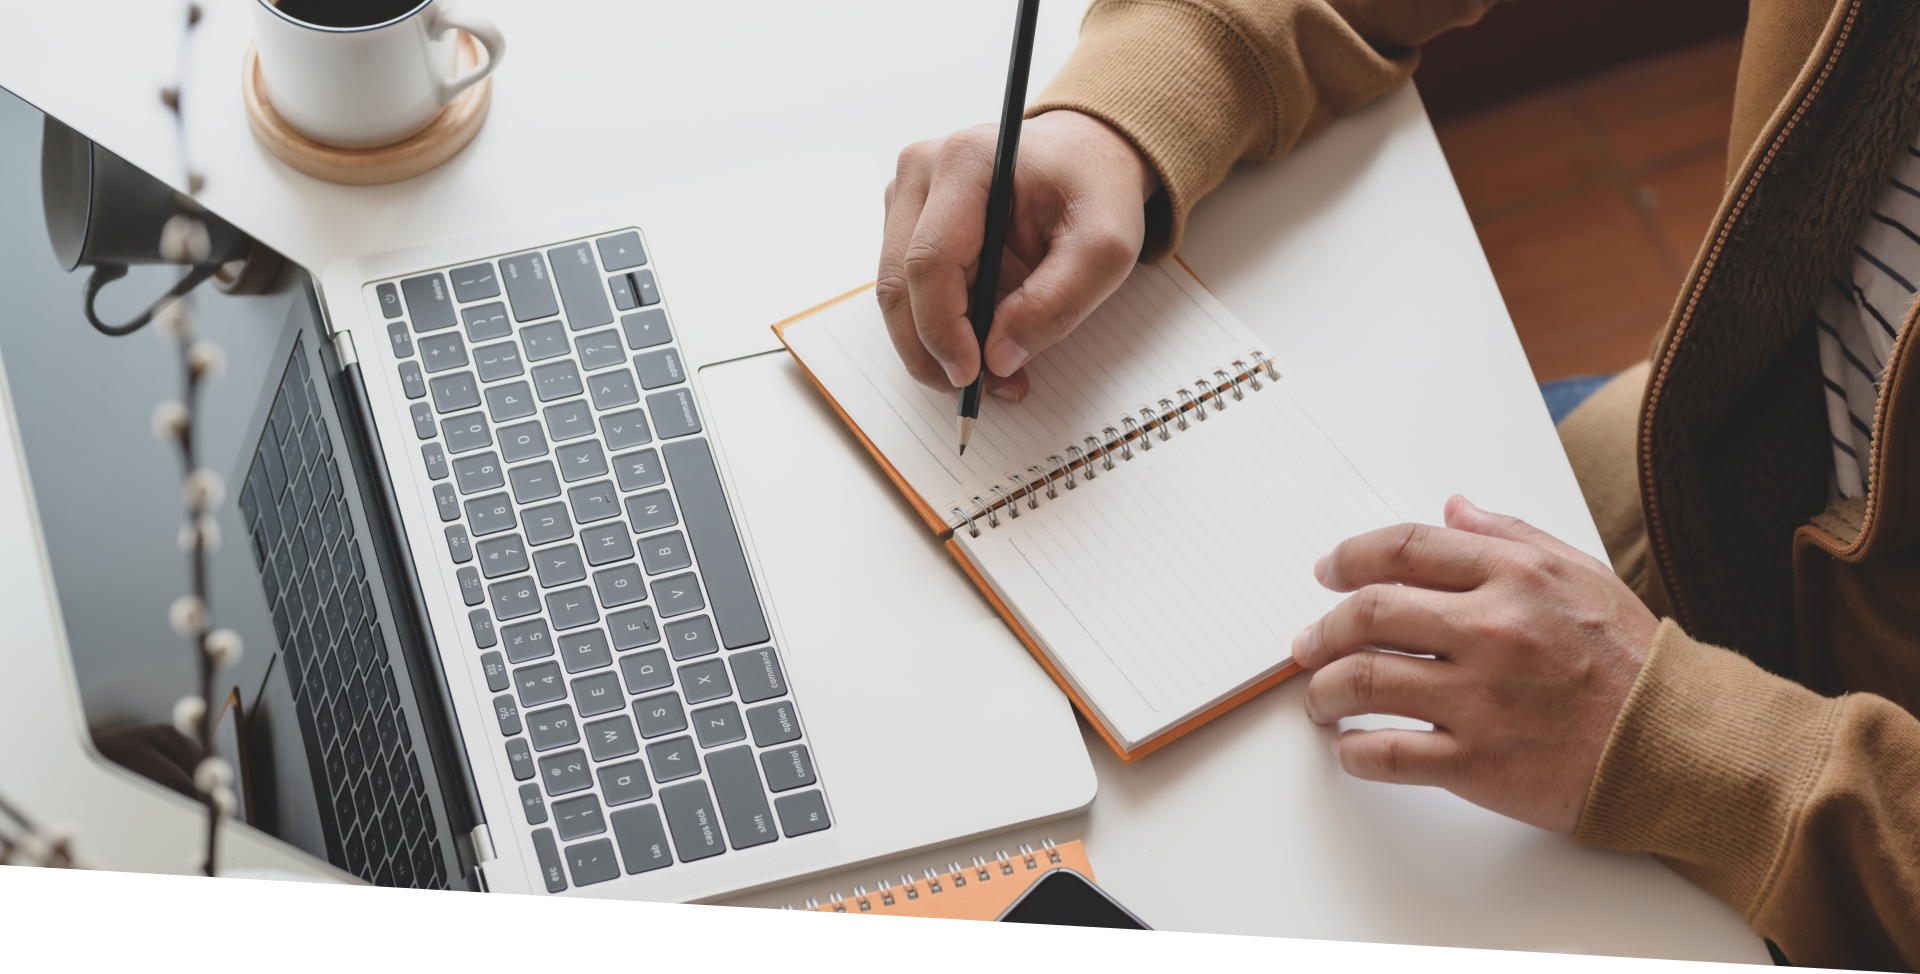
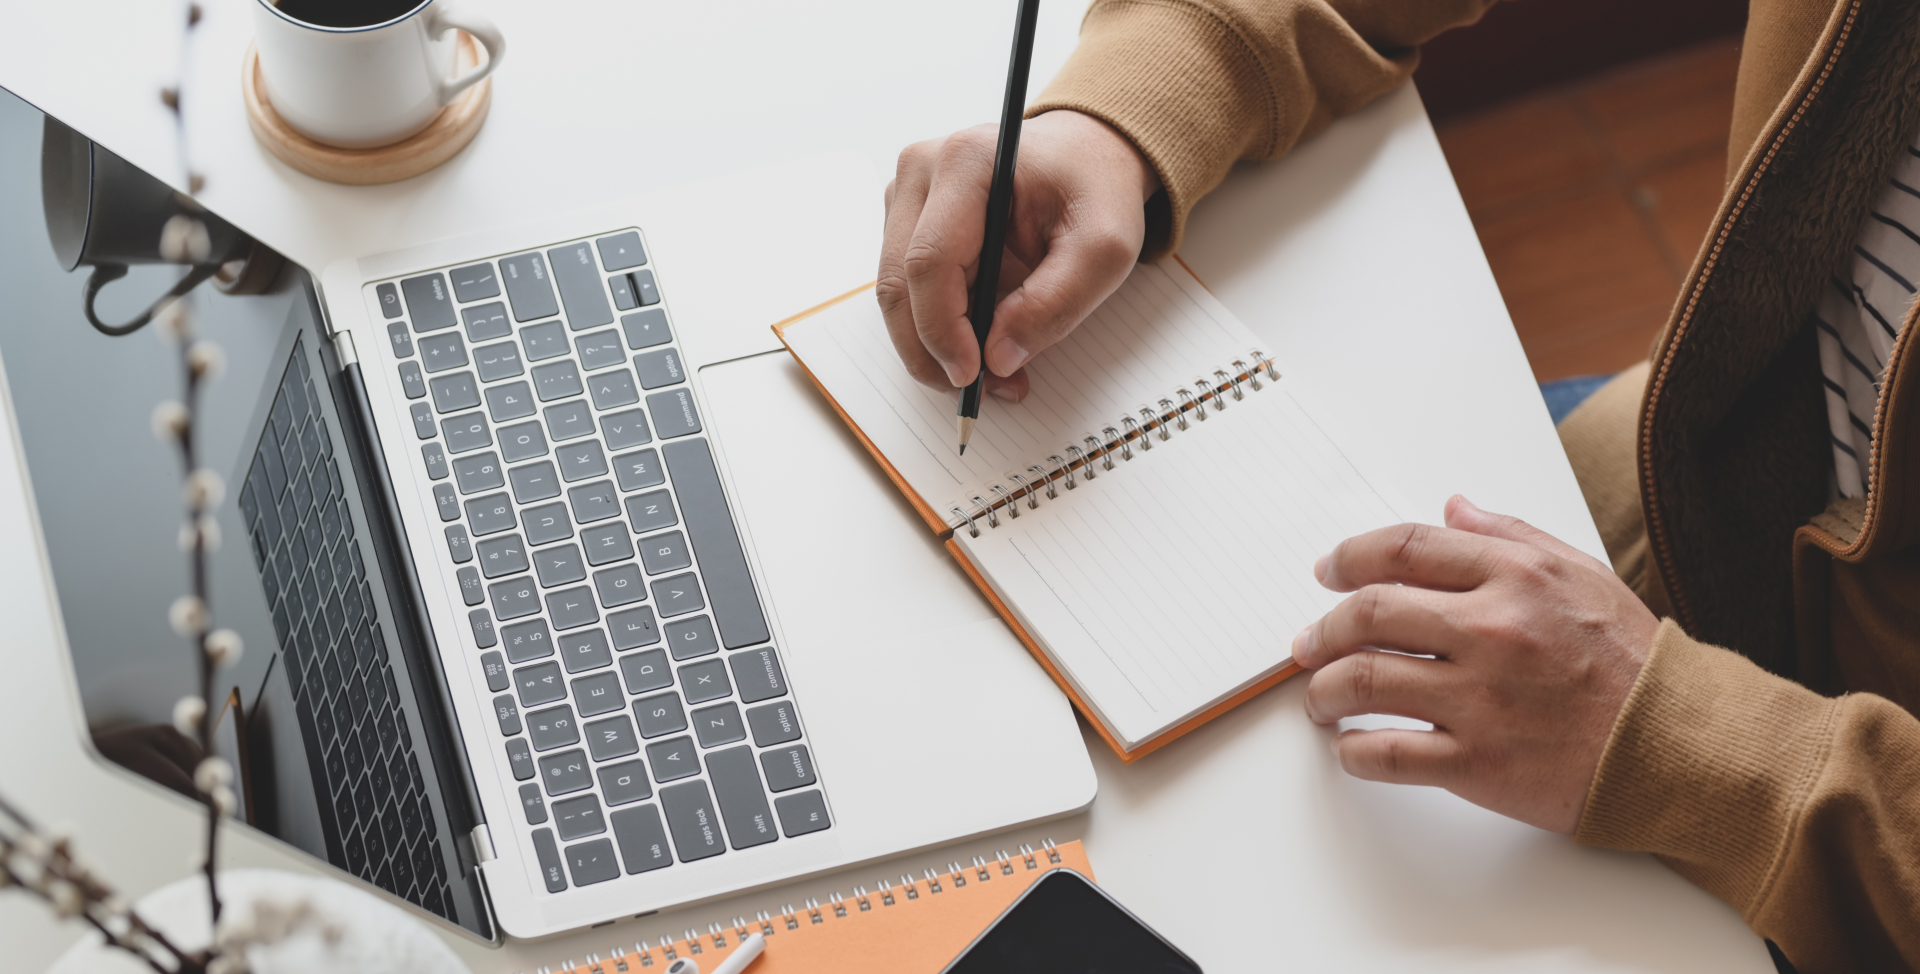
section borders re-done, added social links attributrs, updated about image

Changed region(s): [[0.0, 0.8624, 1.0, 1.0]]

diff --git a/src/js/components/SocialLinks.js b/src/js/components/SocialLinks.js
@@ -4,7 +4,7 @@ const socialLinks = () => {
   return (
     <ul className="social-links">
       {/* <li className="social-links__list-item">
-        <a href="social-links__link">
+        <a href="social-links__link" target="_blank" rel="nofollow" title="">
           <svg class="social-links__icon" width="19" height="18" viewBox="0 0 19 18" fill="none" xmlns="http://www.w3.org/2000/svg">
             <path
               d="M18.12 0H0.755C0.337391 0 0 0.321324 0 0.719048V17.2571C0 17.6549 0.337391 17.9762 0.755 17.9762H18.12C18.5376 17.9762 18.875 17.6549 18.875 17.2571V0.719048C18.875 0.321324 18.5376 0 18.12 0ZM15.9399 5.2468H14.4323C13.2502 5.2468 13.0214 5.78159 13.0214 6.56805V8.30051H15.8432L15.4751 11.0127H13.0214V17.9762H10.0793V11.0149H7.61842V8.30051H10.0793V6.30065C10.0793 3.97948 11.568 2.7144 13.7434 2.7144C14.7862 2.7144 15.6804 2.78856 15.9423 2.82226V5.2468H15.9399Z"
@@ -14,7 +14,7 @@ const socialLinks = () => {
         </a>
       </li> */}
       <li className="social-links__list-item">
-        <a href="social-links__link">
+        <a href="social-links__link" target="_blank" rel="nofollow" title="">
           <svg class="social-links__icon" width="20" height="18" viewBox="0 0 20 18" fill="none" xmlns="http://www.w3.org/2000/svg">
             <path
               d="M16.8448 15.3192H13.9201V11.1471C13.9201 10.1523 13.8973 8.87378 12.3908 8.87378C10.8657 8.87378 10.6334 9.95288 10.6334 11.0735V15.3186H7.70499V6.7403H10.5178V7.9104H10.5555C10.9485 7.23463 11.9045 6.52403 13.3306 6.52403C16.2973 6.52403 16.8479 8.29969 16.8479 10.6084V15.3186L16.8448 15.3192ZM4.39658 5.56795C4.17306 5.56803 3.95172 5.52801 3.74524 5.4502C3.53875 5.37239 3.35119 5.25831 3.19328 5.1145C3.03537 4.97069 2.91022 4.79997 2.825 4.61213C2.73978 4.42428 2.69617 4.22299 2.69665 4.0198C2.69702 3.71396 2.79713 3.41509 2.98434 3.16097C3.17154 2.90686 3.43743 2.7089 3.74838 2.59215C4.05933 2.47539 4.40138 2.44507 4.73129 2.50502C5.06119 2.56498 5.36414 2.71251 5.60181 2.92896C5.83949 3.14542 6.00123 3.42108 6.06658 3.72109C6.13193 4.02111 6.09796 4.332 5.96896 4.61446C5.83996 4.89692 5.62172 5.13827 5.34184 5.30799C5.06197 5.47771 4.73302 5.56817 4.39658 5.56795ZM5.86355 15.3192H2.929V6.74086H5.86355V15.3192ZM18.313 0H1.45832C0.653154 0 0 0.579152 0 1.29593V16.6803C0 17.397 0.653154 17.9762 1.45832 17.9762H18.3099C19.1139 17.9762 19.7738 17.397 19.7738 16.6803V1.29593C19.7738 0.579152 19.1139 0 18.3099 0H18.313Z"
@@ -24,7 +24,7 @@ const socialLinks = () => {
         </a>
       </li>
       <li className="social-links__list-item">
-        <a href="social-links__link">
+        <a href="social-links__link" target="_blank" rel="nofollow" title="">
           <svg class="social-links__icon" width="18" height="18" viewBox="0 0 18 18" fill="none" xmlns="http://www.w3.org/2000/svg">
             <path
               d="M16.3125 0H1.6875C0.759375 0 0 0.759375 0 1.6875V16.3125C0 17.2406 0.759375 18 1.6875 18H16.3125C17.2406 18 18 17.2406 18 16.3125V1.6875C18 0.759375 17.2406 0 16.3125 0ZM12.375 2.8125C12.375 2.50312 12.6281 2.25 12.9375 2.25H15.1875C15.4969 2.25 15.75 2.50312 15.75 2.8125V5.0625C15.75 5.37187 15.4969 5.625 15.1875 5.625H12.9375C12.7884 5.6247 12.6455 5.56534 12.5401 5.45992C12.4347 5.35449 12.3753 5.21159 12.375 5.0625V2.8125ZM9 5.625C9.88002 5.64772 10.7164 6.01327 11.3307 6.64373C11.9451 7.27419 12.289 8.11969 12.289 9C12.289 9.88031 11.9451 10.7258 11.3307 11.3563C10.7164 11.9867 9.88002 12.3523 9 12.375C8.11998 12.3523 7.28364 11.9867 6.66925 11.3563C6.05486 10.7258 5.71102 9.88031 5.71102 9C5.71102 8.11969 6.05486 7.27419 6.66925 6.64373C7.28364 6.01327 8.11998 5.64772 9 5.625ZM15.75 15.1875C15.75 15.4969 15.4969 15.75 15.1875 15.75H2.8125C2.66341 15.7497 2.52051 15.6903 2.41508 15.5849C2.30966 15.4795 2.2503 15.3366 2.25 15.1875V7.875H3.4875C3.32044 8.69238 3.33734 9.53668 3.53695 10.3467C3.73656 11.1568 4.11389 11.9122 4.6416 12.5584C5.16931 13.2046 5.83417 13.7253 6.58799 14.0827C7.34182 14.4401 8.16573 14.6254 9 14.625C9.83427 14.6254 10.6582 14.4401 11.412 14.0827C12.1658 13.7253 12.8307 13.2046 13.3584 12.5584C13.8861 11.9122 14.2634 11.1568 14.4631 10.3467C14.6627 9.53668 14.6796 8.69238 14.5125 7.875H15.75V15.1875Z"
@@ -34,7 +34,7 @@ const socialLinks = () => {
         </a>
       </li>
       {/* <li className="social-links__list-item">
-        <a href="social-links__link">
+        <a href="social-links__link" target="_blank" rel="nofollow" title="">
           <svg class="social-links__icon" width="23" height="18" viewBox="0 0 23 18" fill="none" xmlns="http://www.w3.org/2000/svg">
             <path
               d="M0.480341 1.39959C3.637 4.07293 9.17596 8.77616 10.8039 10.2426C11.0225 10.4406 11.2569 10.5412 11.5002 10.5412C11.7431 10.5412 11.9771 10.4415 12.1951 10.2445C13.8245 8.77661 19.3634 4.07293 22.5201 1.39959C22.7167 1.23346 22.7466 0.941472 22.5875 0.738381C22.2197 0.269082 21.6713 0 21.0835 0H1.9169C1.32918 0 0.780733 0.269082 0.412958 0.738426C0.253845 0.941473 0.283807 1.23346 0.480341 1.39959Z"
@@ -48,7 +48,7 @@ const socialLinks = () => {
         </a>
       </li> */}
       <li className="social-links__list-item">
-        <a href="social-links__link">
+        <a href="social-links__link" target="_blank" rel="nofollow" title="">
           <svg class="social-links__icon" width="18" height="18" viewBox="0 0 18 18" fill="none" xmlns="http://www.w3.org/2000/svg">
             <path
               d="M16.0714 0H1.92857C0.863839 0 0 0.863839 0 1.92857V16.0714C0 17.1362 0.863839 18 1.92857 18H16.0714C17.1362 18 18 17.1362 18 16.0714V1.92857C18 0.863839 17.1362 0 16.0714 0ZM11.1415 15.4165C10.804 15.4768 10.6795 15.2679 10.6795 15.0951C10.6795 14.8781 10.6875 13.7692 10.6875 12.8732C10.6875 12.2464 10.4786 11.8487 10.2335 11.6397C11.7201 11.475 13.2871 11.2701 13.2871 8.70268C13.2871 7.97143 13.0259 7.6058 12.6 7.13571C12.6683 6.96295 12.8973 6.25179 12.5317 5.32768C11.9732 5.15491 10.6955 6.04688 10.6955 6.04688C10.1652 5.89821 9.59062 5.82187 9.02411 5.82187C8.45759 5.82187 7.88304 5.89821 7.35268 6.04688C7.35268 6.04688 6.075 5.15491 5.51652 5.32768C5.15089 6.24777 5.37589 6.95893 5.44821 7.13571C5.02232 7.6058 4.82143 7.97143 4.82143 8.70268C4.82143 11.258 6.32009 11.475 7.8067 11.6397C7.61384 11.8125 7.44107 12.1098 7.3808 12.5357C6.99911 12.7085 6.02277 13.0058 5.44018 11.9772C5.07455 11.3424 4.41563 11.2902 4.41563 11.2902C3.76473 11.2821 4.37143 11.7 4.37143 11.7C4.80536 11.9009 5.11071 12.6723 5.11071 12.6723C5.50045 13.8656 7.36473 13.4638 7.36473 13.4638C7.36473 14.0223 7.37277 14.9304 7.37277 15.0951C7.37277 15.2679 7.25223 15.4768 6.91071 15.4165C4.25893 14.5286 2.40268 12.0054 2.40268 9.05625C2.40268 5.36786 5.22321 2.56741 8.91161 2.56741C12.6 2.56741 15.5893 5.36786 15.5893 9.05625C15.5933 12.0054 13.7933 14.5326 11.1415 15.4165ZM7.2 12.9616C7.12366 12.9777 7.05134 12.9455 7.0433 12.8933C7.03527 12.833 7.0875 12.7808 7.16384 12.7647C7.24018 12.7567 7.3125 12.7888 7.32054 12.8411C7.33259 12.8933 7.28036 12.9455 7.2 12.9616ZM6.8183 12.9254C6.8183 12.9777 6.75804 13.0219 6.67768 13.0219C6.58929 13.0299 6.52902 12.9857 6.52902 12.9254C6.52902 12.8732 6.58929 12.829 6.66964 12.829C6.74598 12.821 6.8183 12.8652 6.8183 12.9254ZM6.26786 12.8813C6.25179 12.9335 6.17143 12.9576 6.10312 12.9335C6.02679 12.9174 5.97455 12.8571 5.99063 12.8049C6.0067 12.7527 6.08705 12.7286 6.15536 12.7446C6.23571 12.7688 6.28795 12.829 6.26786 12.8813ZM5.77366 12.6643C5.7375 12.7085 5.66116 12.7004 5.60089 12.6402C5.54062 12.5879 5.52455 12.5116 5.56473 12.4754C5.60089 12.4312 5.67723 12.4393 5.7375 12.4996C5.78973 12.5518 5.80982 12.6321 5.77366 12.6643ZM5.40804 12.2987C5.37188 12.3228 5.30357 12.2987 5.25937 12.2384C5.21518 12.1781 5.21518 12.1098 5.25937 12.0817C5.30357 12.0455 5.37188 12.0737 5.40804 12.1339C5.45223 12.1942 5.45223 12.2665 5.40804 12.2987ZM5.14688 11.9089C5.11071 11.9451 5.05045 11.925 5.00625 11.8848C4.96205 11.8326 4.95402 11.7723 4.99018 11.7442C5.02634 11.708 5.08661 11.7281 5.1308 11.7683C5.175 11.8205 5.18304 11.8808 5.14688 11.9089ZM4.87768 11.6116C4.86161 11.6478 4.80937 11.6558 4.76518 11.6277C4.71295 11.6036 4.68884 11.5594 4.70491 11.5232C4.72098 11.4991 4.76518 11.4871 4.81741 11.5071C4.86964 11.5353 4.89375 11.5795 4.87768 11.6116Z"

diff --git a/src/index.js b/src/index.js
@@ -17,9 +17,21 @@ ReactDOM.render(
   <React.StrictMode>
     <Header />
     <Hero />
+    <div className="decorative-border">
+      <div class="decorative-border__inner decorative-border__inner--bottom"></div>
+    </div>
     <About />
+    <div className="decorative-border">
+      <div class="decorative-border__inner decorative-border__inner--top"></div>
+    </div>
     <Projects />
+    <div className="decorative-border">
+      <div class="decorative-border__inner decorative-border__inner--bottom"></div>
+    </div>
     <Blogs />
+    <div className="decorative-border">
+      <div class="decorative-border__inner decorative-border__inner--top"></div>
+    </div>
     <Contact />
     <Footer />
   </React.StrictMode>,

diff --git a/src/styles/base/globals.scss b/src/styles/base/globals.scss
@@ -1,8 +1,27 @@
 .section-width {
   margin-left: auto;
   margin-right: auto;
-  max-width: 1170px;
-  width: 100%;
   padding-right: 40px;
   padding-left: 40px;
+  max-width: 1250px;
+  width: 100%;
+}
+
+.decorative-border {
+  pointer-events: none;
+
+  &__inner {
+    height: 12vh;
+    background-color: var(--primary-colour);
+  }
+
+  &__inner--top {
+    transform: translateY(100%);
+    clip-path: polygon(0 0, 100% 0, 100% 0%, 0 100%);
+  }
+
+  &__inner--bottom {
+    transform: rotate(-180deg) translateY(100%);
+    clip-path: polygon(0 0, 100% 0, 100% 0, 0 100%);
+  }
 }

diff --git a/src/styles/layout/sections.scss b/src/styles/layout/sections.scss
@@ -4,10 +4,6 @@
   background-repeat: no-repeat;
   background-size: cover;
 
-  &--clipped {
-    clip-path: polygon(0 0, 100% 0, 100% 100%, 0 80vh);
-  }
-
   &--hero {
     background: linear-gradient(103.59deg, rgba(24, 26, 41, 0.85) 2.03%, rgba(24, 26, 41, 0.45) 98.49%),
       url(../../images/hero.jpg) center/cover no-repeat;
